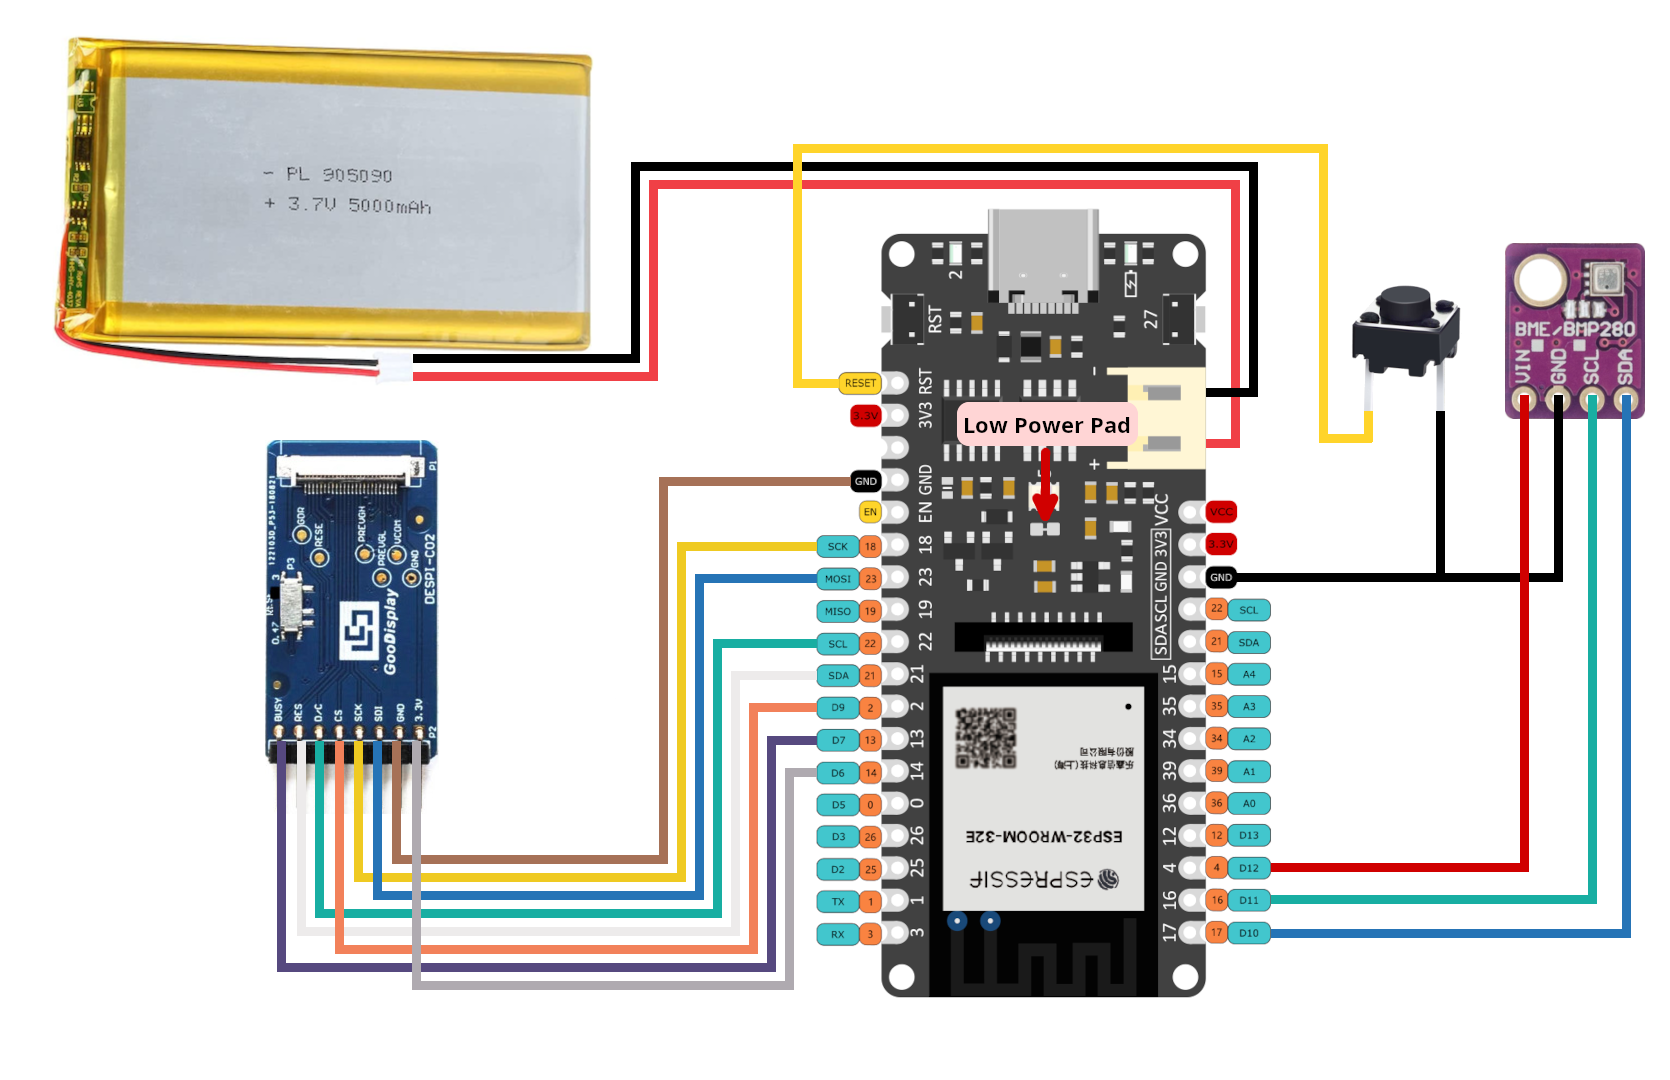
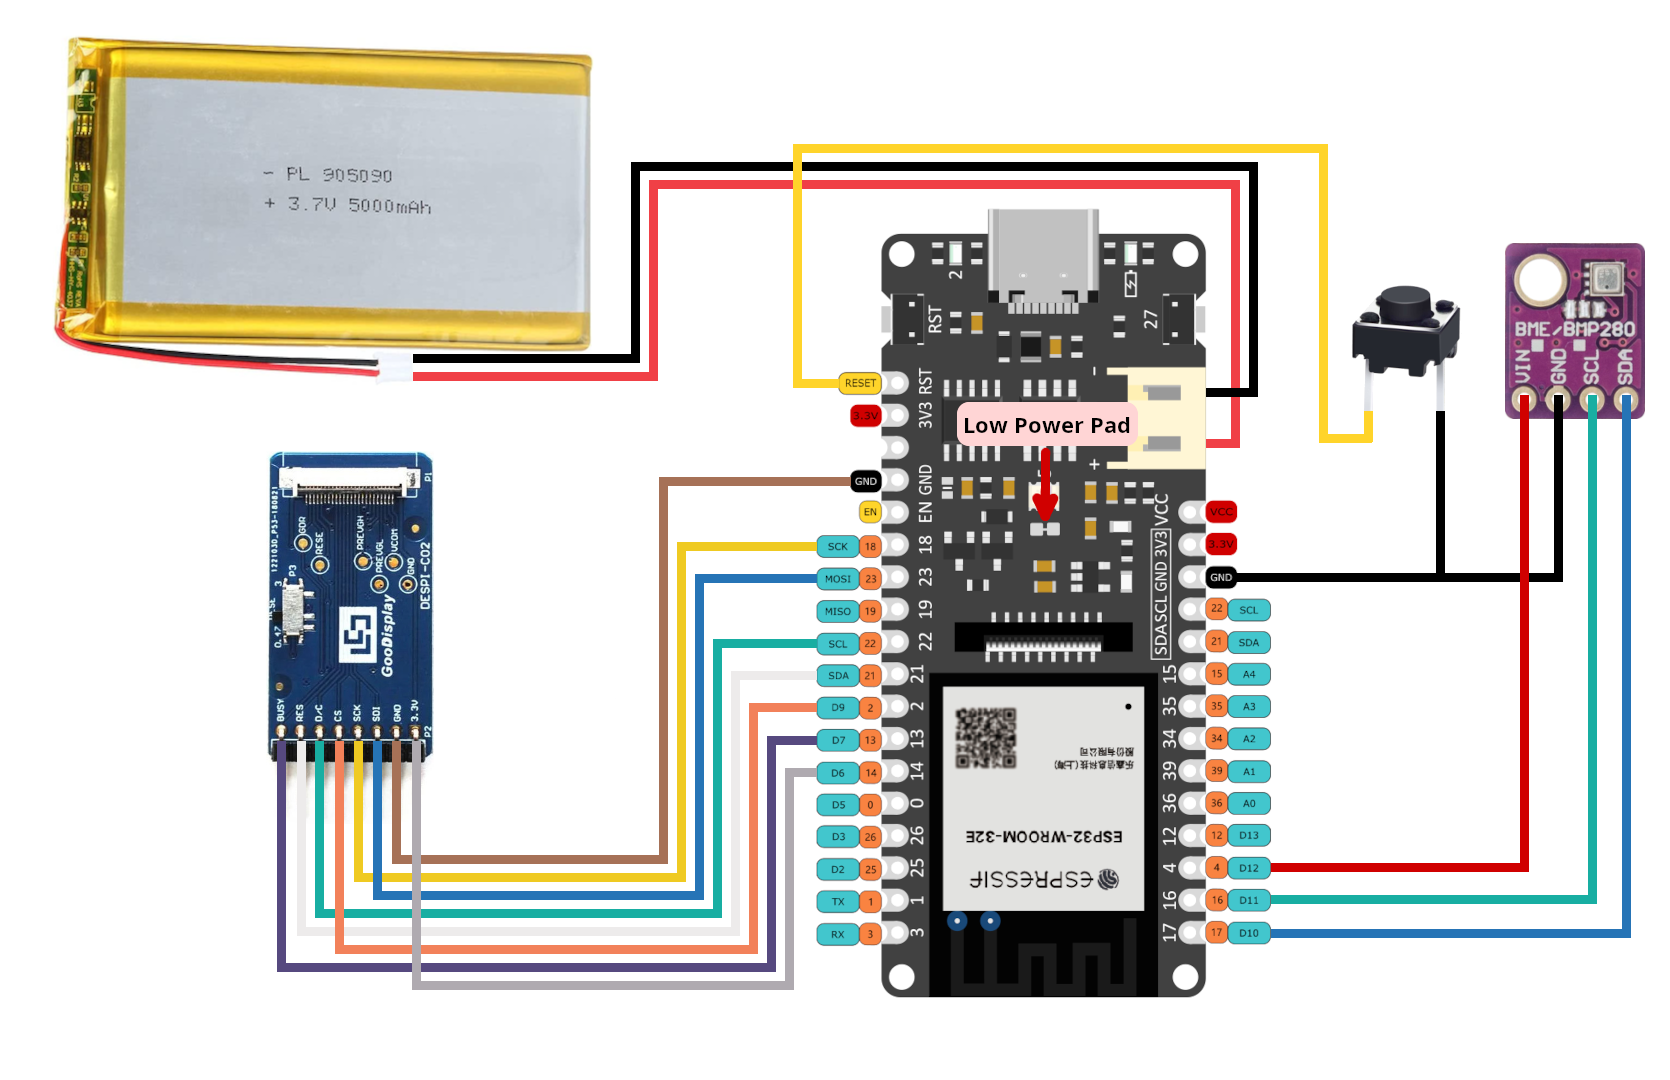
updated despi-c02 wiring diagram to indicate correct RESE setting

Changed region(s): [[0.1557, 0.3972, 0.2802, 0.7333]]

diff --git a/README.md b/README.md
@@ -164,7 +164,7 @@ IMPORTANT: The Waveshare E-Paper Driver HAT has two physical switches that MUST 
 
 IMPORTANT: The DESPI-C02 adapter has one physical switch that MUST be set correctly for the display to work.
 
-- RESE: Set switch to position 3.
+- RESE: Set switch to position 0.47.
 
 Cut the low power pad for even longer battery life.
 
